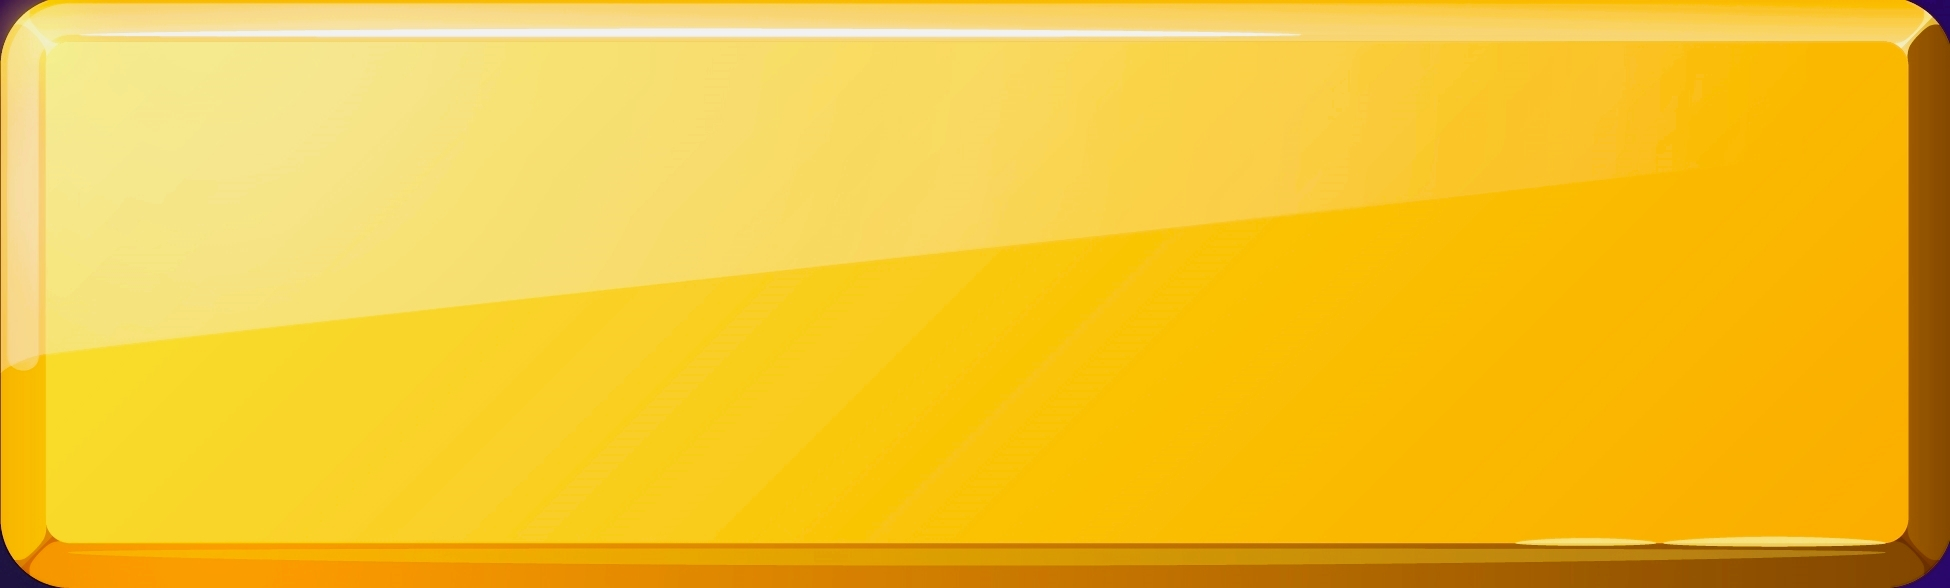
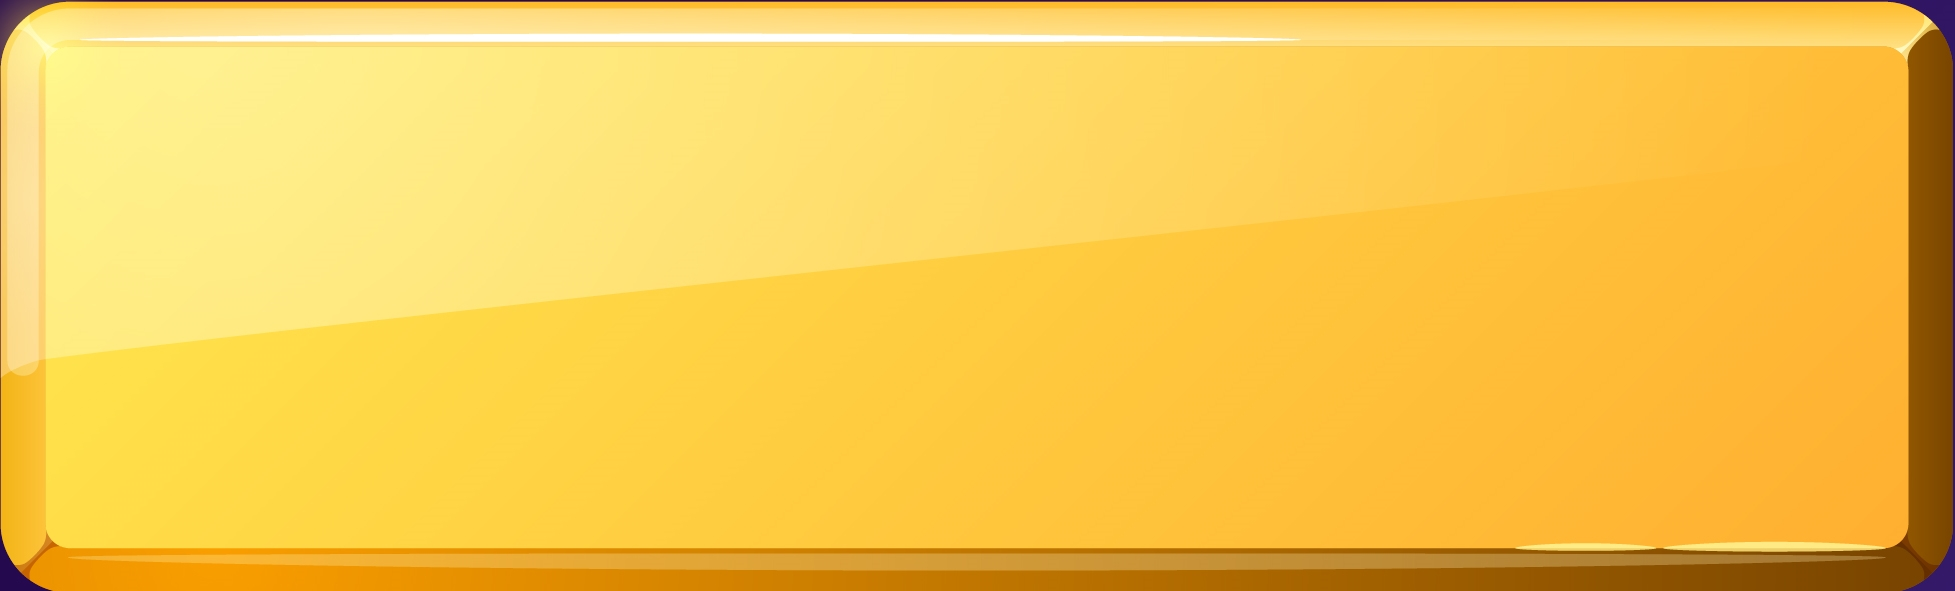
доработал

diff --git a/function.py b/function.py
@@ -43,6 +43,7 @@ def fanction(number, time):
 
     class Button(pygame.sprite.Sprite):
         image = pygame.transform.scale(load_image("2109.w032.n003.116B.p1.116.jpg"), (100, 50))
+        image_2 = pygame.transform.scale(load_image("2109.w032.n003.116B.p1.116 — копия.jpg"), (100, 50))
 
         def __init__(self, group, x, y):
             super().__init__(group)
@@ -59,6 +60,11 @@ def fanction(number, time):
             if args and args[0].type == pygame.MOUSEBUTTONDOWN and \
                     self.rect.collidepoint(args[0].pos):
                 self.flag = False
+            if args and args[0].type == pygame.MOUSEMOTION and \
+                    self.rect.collidepoint(args[0].pos):
+                self.image = Button.image_2
+            else:
+                self.image = Button.image
 
     class FON(pygame.sprite.Sprite):
         image = pygame.transform.scale(load_image("5447769.jpg"), (600, 400))
@@ -78,6 +84,8 @@ def fanction(number, time):
                 running = False
             if event.type == pygame.MOUSEBUTTONDOWN:
                 sprite_Button.update(event)
+            if event.type == pygame.MOUSEMOTION:
+                sprite_Button.update(event, True)
         if not a1.flag:
             running = False
         sprite_Button.draw(screen)
